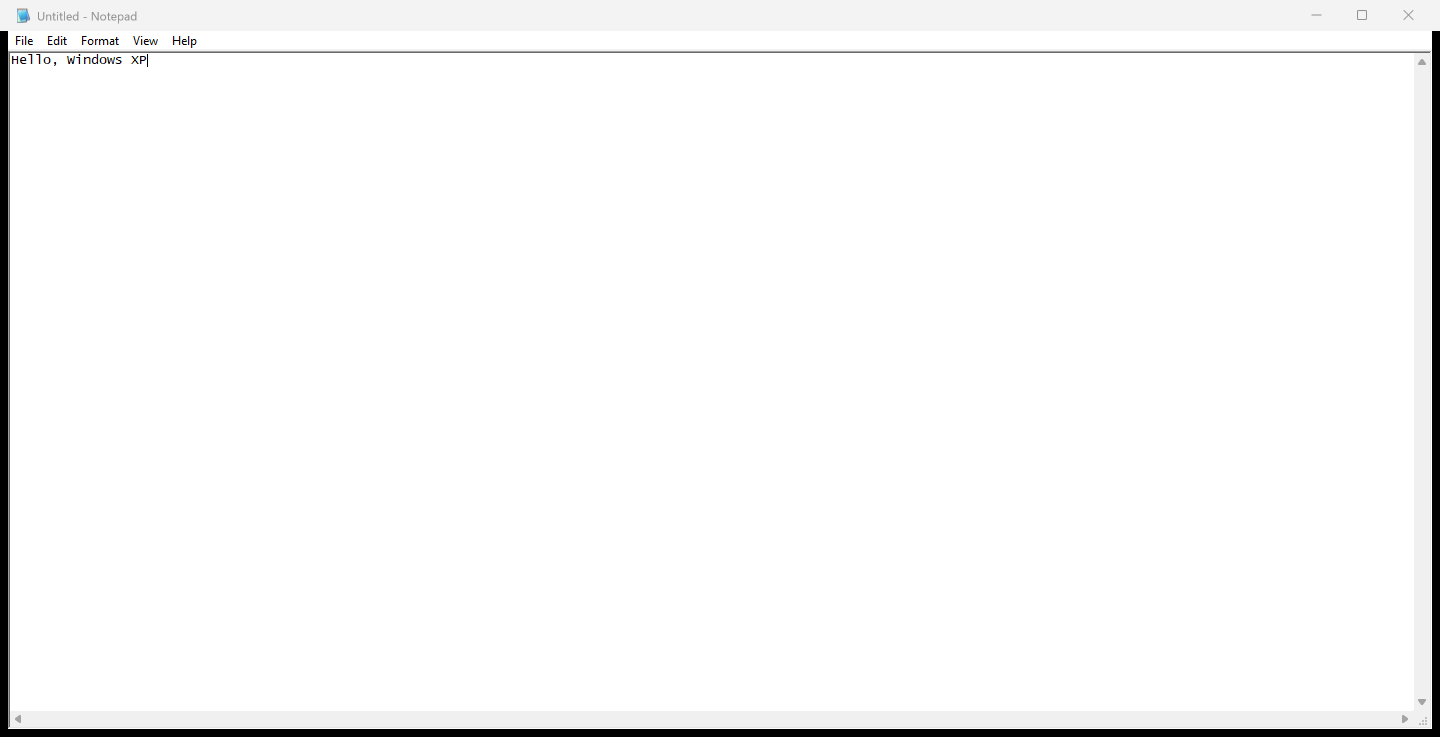
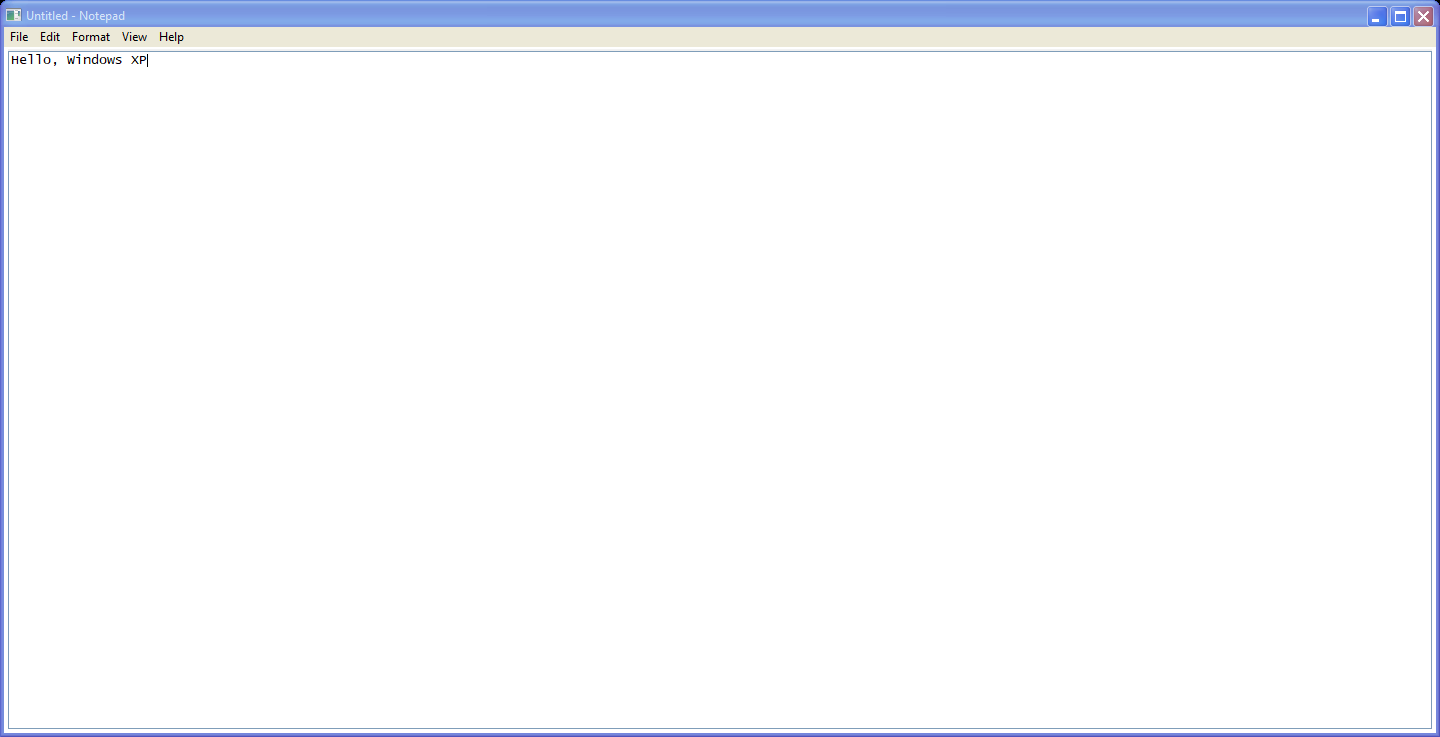
Luna README: Luna and Bliss, gaps, current Luna shots; handoff: gates, goldens, explorer stability

Changed region(s): [[0.0, 0.0, 1.0, 1.0]]

diff --git a/README.md b/README.md
@@ -18,13 +18,13 @@ files, catalogs, symbols and lifted C) goes into the gitignored `work/` and
 | | |
 |---|---|
 | ![Desktop and taskbar](docs/img/desktop.png) | ![Start menu](docs/img/startmenu.png) |
-| XP's explorer: its desktop and taskbar (Win11 host, 800x600 screen of its own) | XP's two-pane Start menu: the guest's own user, "User" |
-| ![Start → Run → Minesweeper](docs/img/run_winmine.png) | |
-| Run → winmine: explorer starts the lifted winmine in its screen | |
+| XP's explorer in Luna on Bliss: its desktop and taskbar (Win11 host, 800x600 screen of its own) | XP's two-pane Start menu: the guest's own user, "User" |
+| ![Start → Run → Minesweeper](docs/img/run_winmine.png) | ![Minesweeper and Notepad](docs/img/explorer_notepad.png) |
+| Run → winmine: explorer starts the lifted winmine in its screen | winmine and notepad started from Run, in themed frames |
 | ![Calculator](docs/img/calc.png) | ![Notepad](docs/img/notepad.png) |
-| calc on XP's own user32, gdi32 and comctl32 6.0: 12+3= | notepad, typed into |
-| ![Minesweeper](docs/img/winmine.png) | ![Custom field](docs/img/winmine_custom.png) |
-| winmine, Intermediate | Game > Custom |
+| calc on XP's own user32, gdi32 and comctl32 6.0: 12+3= (its window is 10 px short in Luna) | notepad, typed into |
+| ![Minesweeper](docs/img/winmine.png) | ![Game menu](docs/img/winmine_menu.png) |
+| winmine, a click | the Game menu |
 
 Every shot above is from a run on a private desktop (`tools/hiddenrun.py`),
 muted, in its file box. How it works: [docs/survey.md](docs/survey.md) (what
@@ -52,7 +52,7 @@ on your machine from your copy.
 The setup asks before installing anything it needs (Python 3, pefile and
 capstone, Git for Windows, 7-Zip, Visual Studio's C++ Build Tools, CMake,
 Ninja, and the [pcrecomp](https://github.com/sp00nznet/pcrecomp) toolkit
-beside this folder, or wherever `PCRECOMP` points; XP needs its `xp` branch).
+beside this folder, or wherever `PCRECOMP` points; XP needs its `luna` branch).
 The first run takes about 50 minutes and 7.2 GB (a clean clone, 2026-11-18); a rerun skips every finished step
 (`-Force` redoes them, `-Yes` answers yes to every question). Its log is
 `setup.log`. The guest sees only `work\profile` as its drives, has a registry
@@ -72,16 +72,31 @@ Source used: Windows XP Media Center Edition 2005 SP3 CD (NT 5.1.2600.5512).
 The guest never sees the host's identity: it is user `User` on computer
 `PCRECOMP`, at the local console (pcrecomp regbox32.c, syscall32.c).
 
-Known gaps: the Start menu's right pane (My Documents, Control Panel, Run...)
-and its program list are empty (Run is reached by explorer's own command,
-`--childpost 'Shell_TrayWnd:0x111,0x191,0@T'`); the Run dialog's icon is blank; calc's buttons take its own
-red/blue label colours (stage 1 on Windows 11's comctl32 draws them black)
-and its button text is one ClearType level off; no visual style (Luna), so no
-XP goldens are approved yet.
+**Luna and Bliss.** XP's own look: the lifted uxtheme loads the CD's
+`luna.msstyles` as data (its ThemeApiPort answered by pcrecomp, its user32
+hooks installed as win32k would), and draws the green Start button, the blue
+taskbar, the two-pane Start menu and themed window frames (caption, buttons,
+rounded corners) through XP's DrawStream. The wallpaper is the CD's Bliss.
+Both are expanded from your CD into `work/profile` by `tools/run_explorer.sh`
+and set only in the guest's boxed registry (`tools/profile.py`): the host's
+theme and wallpaper are never touched.
 
-Regression: `py -3 tools/interact.py` drives the accessories and compares each
-shot with the stage 1 build's and with the approved golden for this display
-(none yet: "SKIP"). `tools/run_explorer.sh NAME SECS` runs explorer and fails
+Known gaps: the Run dialog's frame is still classic and its icon blank;
+popup menus (the Start menu's submenus, an app's menus) are drawn by the
+host, not themed; the Start menu has no user picture and no most-used
+programs list; after a resize (winmine's Intermediate, Custom) a strip of the
+old frame is left unpainted; calc's window comes out 10 px narrower than its
+buttons in Luna, clipping its right column (Run is reached by explorer's own
+command, `--childpost 'Shell_TrayWnd:0x111,0x191,0@T'`). calc's buttons take
+its own red/blue label colours (stage 1 on Windows 11's comctl32 draws them
+black).
+
+Regression: `py -3 tools/interact.py` drives the accessories (in Luna;
+`XP_LUNA=0` for the classic look) and compares each shot with the stage 1
+build's (informational in Luna: stage 1 has the host's look) and with the
+approved golden for this display. Goldens for 3840x2160@192: winmine start,
+click and Game menu, notepad start and typed; the states with the gaps above
+have none and fail as "NO GOLDEN". `tools/run_explorer.sh NAME SECS` runs explorer and fails
 when any host module other than advapi32 is mapped into the guest.
 
 ## Building by hand

diff --git a/docs/survey.md b/docs/survey.md
@@ -10,7 +10,7 @@ Numbers below were read off this ISO's own files (`tools/svctable.py`,
 
 ## Handoff (current state)
 
-- pcrecomp branch `xp` (worktree ../pcrecomp-xp); every XP answer is behind the guest's build
+- pcrecomp branch `luna` (worktree ../pcrecomp-luna, on top of `xp`); every XP answer is behind the guest's build
   number (`runtime/native32/ntguest.h`; `build >= 2600` where the PEB is not filled yet).
 - Reproducible from the CD: `tools/fetch_xp.sh` expands and rebases every module at its base
   (0x20000000 system, 0x23000000 explorer's set, 0x24000000 its extras: ... apphelp 0x24B00000,
@@ -54,9 +54,26 @@ Numbers below were read off this ISO's own files (`tools/svctable.py`,
   rerun idempotently); clone's run_explorer strict check passes, interact runs all 11 states
   (no stage 1 in a clone: "stage1 missing"). xp box exported/restored (same content).
 - win2000 interact on build-xpcheck (after 92aed60), same hour as win2000 build/: every row equal (all golden 0; mspaint/wordpad stage1 6022/4894 on both) except winmine click 86 once on xp, 0 on rerun (the known flake).
-- Next: the Start menu's right pane and program list (empty), the Run dialog icon, Luna:
-  uxtheme connects to `\ThemeApiPort` (the theme service, shsvcs.dll) for its theme section:
-  an LPC answer in the runtime that loads LUNA.MS_ through uxtheme's own loader; then goldens.
+- **Luna + Bliss** (pcrecomp luna): ThemeApiPort answered, uxtheme's own loader reads the CD's
+  luna.msstyles (run_explorer.sh expands it and Bliss.bmp into work/profile; profile.py sets the
+  theme/colours/metrics/wallpaper in the box only), user32 hooks installed as win32k's
+  RegisterUserApiHook would, theme started before the entry point; DrawStream, regions,
+  themed frame metrics, wallpaper in w32kgdi.c/w32kuser.c/csr32.c. Debug env switches removed.
+- Gate (2026-11-18, 3840x2160@192, Luna): XP goldens approved for winmine start, click, menu
+  open and notepad start, typed (all 0; click can tick the counter once: 86 px, 0 on rerun).
+  Not approved (visible bugs): winmine intermediate/custom/custom 20x30/menu+Interm. (a strip
+  of the old frame left after the resize), calc start/12+3= (window 260 wide vs 270: right
+  column clipped). Those fail as NO GOLDEN until fixed.
+- win2000 interact on build-xpcheck (pcrecomp-luna 4174395) vs build/, same hour: equal rows
+  except sol deal/deck golden, packager stage1 and wordpad stage1/golden, which flip between
+  the same values run to run on both builds (rerun twice each: timing, not the branch).
+- Explorer stability: 1/15 died before (exit 5: shdocvw -> NetGetJoinInformation -> refused
+  \pipe\wkssvc raised ERROR_ACCESS_DENIED into netapi32's RpcExcept, whose resume returned to
+  0 from ntdll __SEH_epilog). pcrecomp native32_netapi_refuse answers NetGetJoinInformation/
+  NetWkstaGetInfo/NetWkstaUserGetInfo ERROR_ACCESS_DENIED before the RPC: 15/15 clean after.
+  The underlying seh32 resume-to-0 after a non-RPC_S code is not fixed.
+- Next: the resize leftover strip and calc's width in Luna; Run dialog frame (classic), host-
+  drawn popup menus, Start menu user picture and MFU list; the Start menu's program list.
 - Debugging: `tools/pdbsyms.py MODULE > work/pdb/x.syms.txt` (MS public symbols, OMAP applied);
   `PCRECOMP_REGTRACE=2` (every box open), `PCRECOMP_FAULTTRACE=1` (guest stack + entry ring at
   a host AV), `PCRECOMP_TEXTTRACE=1` (batched text/fonts); probes by fprintf at RECOMP_ENTER
